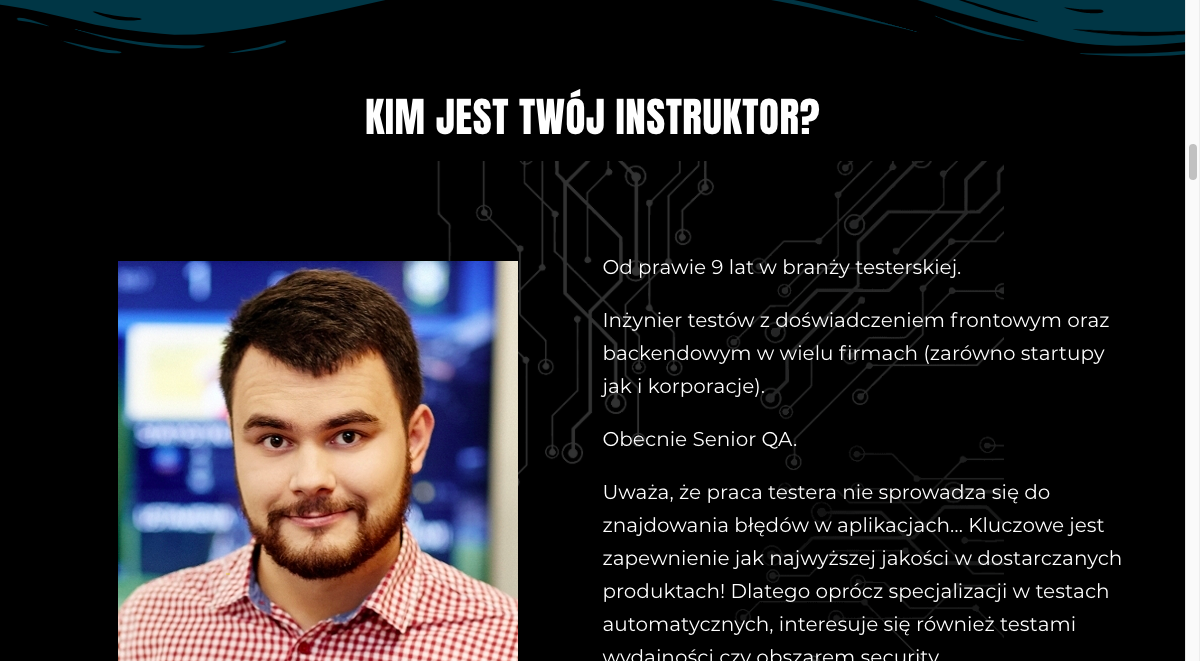
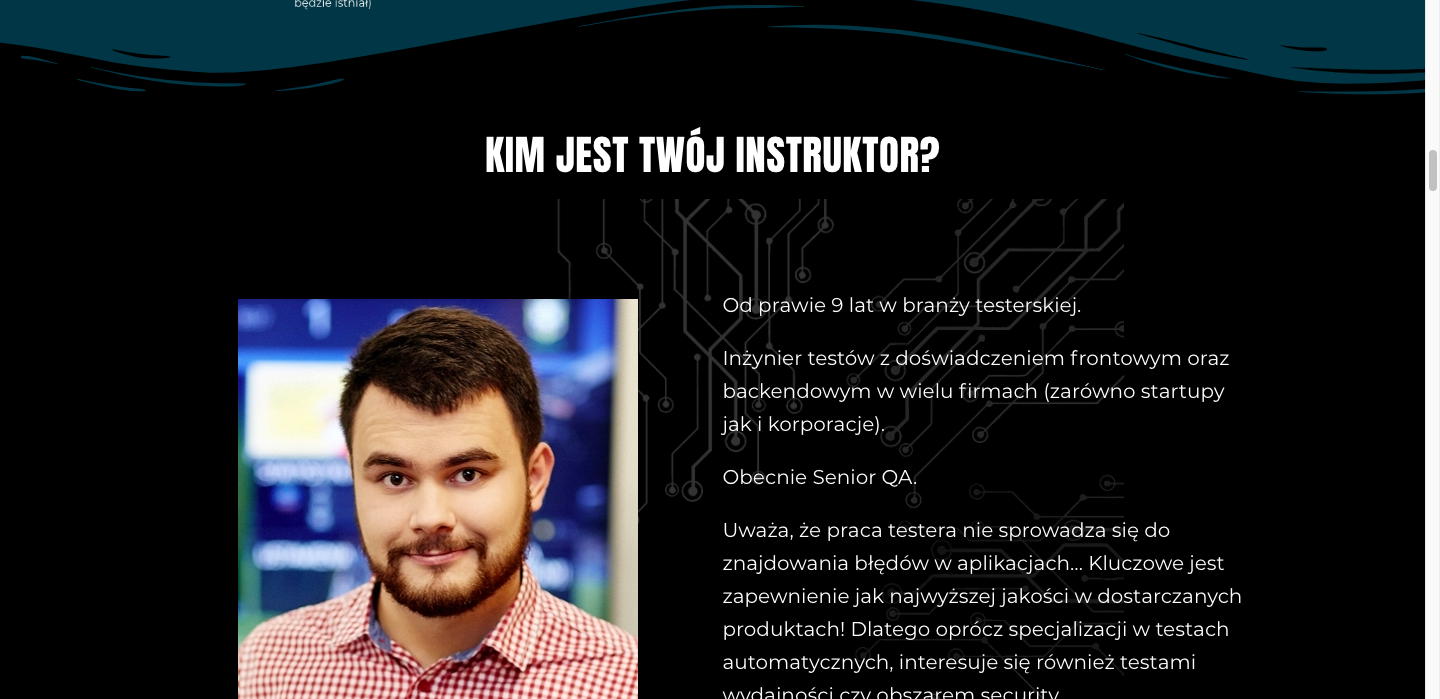
maximize window

diff --git a/homeworks/selenium_modul6.py b/homeworks/selenium_modul6.py
@@ -4,6 +4,7 @@ from helpers.helpers import scrolling_to_element
[1 lines of base64/hex data omitted]
 
 driver.get('https://fabrykatestow.pl')
+driver.maximize_window()
 link = driver.find_element_by_link_text('KURS TAPS')
 link.click()
 scrolling_to_element(driver, '//*[@id="content"]/div/div/div/div/div/div/div/section[9]/div[2]/div/div/div/div/section/div/div/div[1]/div/div/div[1]/div/div/img')

diff --git a/scripts/test_my_website.py b/scripts/test_my_website.py
@@ -5,6 +5,7 @@ import time
[1 lines of base64/hex data omitted]
 
 driver.get('https://javaheri.pl')
+driver.maximize_window()
 link = driver.find_element_by_link_text('KONTAKT')
 link.click()
 scrolling_to_element(driver, '//*[@id="post-23"]/div[2]/div/div/div/div/section[3]/div/div/div/div/div/div[4]/div/div/div')
